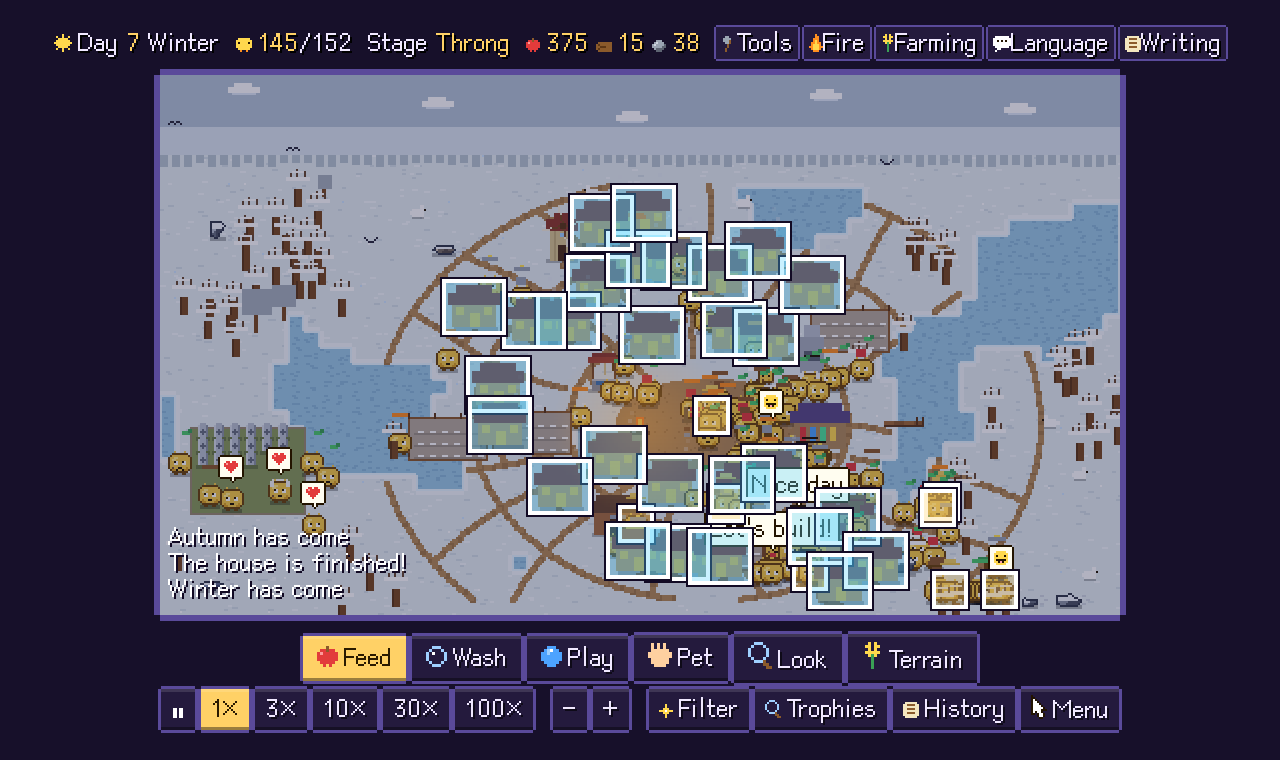
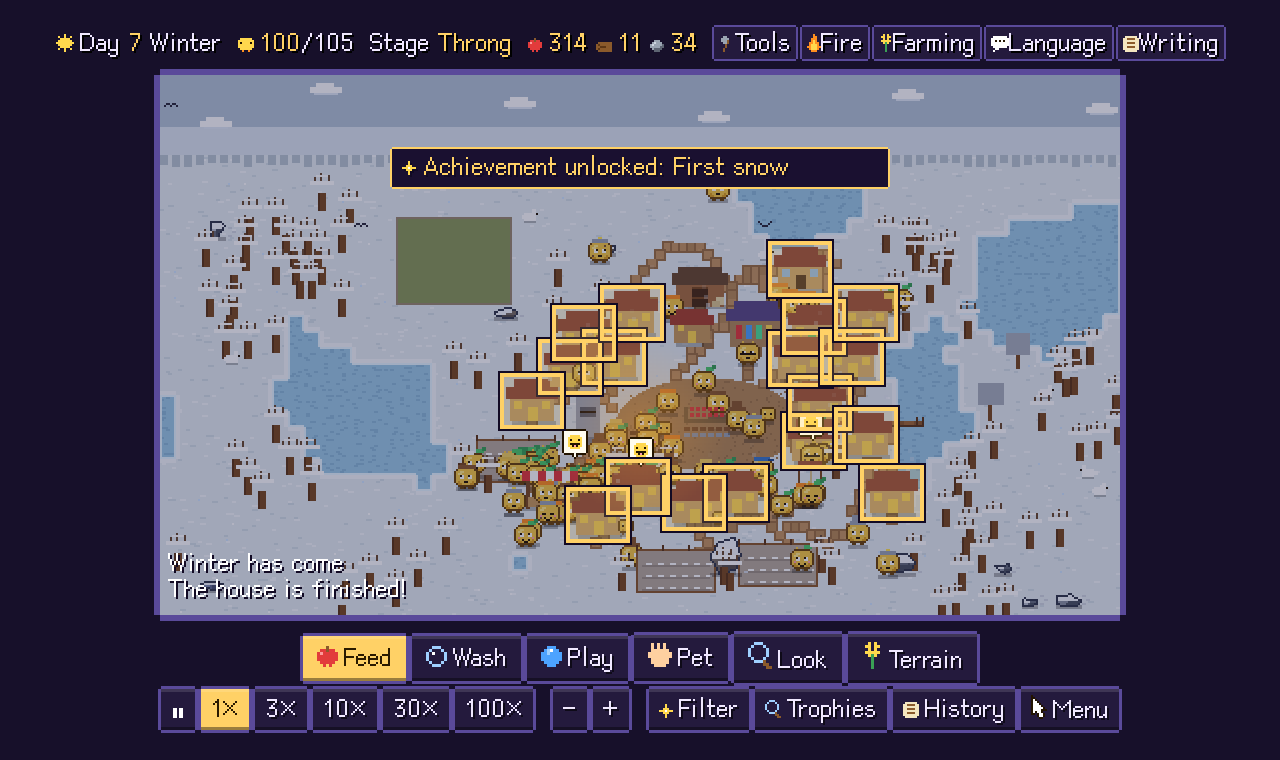
Close-up detail for buildings and trees; retake screenshots and GIF; update READMEs
Shingled roofs, window frames, doors, chimneys, brick and plank textures,
leaf clumps and bark; new close-up screenshot; GIF now zooms in through the
detail levels. READMEs describe the new road growth and LOD system.

diff --git a/README.zh-TW.md b/README.zh-TW.md
@@ -10,7 +10,7 @@
 
 ![demo](docs/demo.gif)
 
-_一隻小生物在約 15 秒的縮時影片裡長成一座村落（道路、農田、四季、世代）。_
+_一隻小生物在約 12 秒的縮時影片裡長成一座村落，接著鏡頭拉近（細節層級切換成更精細的畫面）。_
 
 ## 玩法
 
@@ -59,6 +59,19 @@ _一隻小生物在約 15 秒的縮時影片裡長成一座村落（道路、農
 
 分成兩排：上排是**工具**（餵食、洗澡、玩球、摸摸、查看、地形）；下排由左到右是**時間**（暫停、1×～100×）、**視角**（縮放）、**面板**（篩選、成就、歷史）與**選單**（音樂、聲音、語言、重來與快捷鍵一覽）。視窗變窄時文字標籤會自動隱藏、只留圖示；滑鼠移到按鈕上會顯示說明與快捷鍵。
 
+## 細節層級（LOD），用像素實作
+
+拉近時畫面會變**精細**，而不只是把方塊放大：
+
+| 層級 | 何時 | 畫法 |
+|---|---|---|
+| 0 遠景 | 縮小且畫面上東西很多 | 簡化色塊，每隻小生物一個色點代表職業 |
+| 1 標準 | 一般 | 原本的像素圖 |
+| 2 近景 | 放大 2× 以上 | 畫布內部解析度 2×：精靈先用原畫法畫進暫存畫布，再用 Scale2x 放大（斜線與轉角變圓），補上受光邊／背光邊、明暗漸層與顆粒；地面與道路同樣處理（細顆粒、草葉、小石子）；臉部以 1/R 像素的解析度重畫：帶輪廓的眼白、虹膜、瞳孔與眼神高光（覺醒後會跟著滑鼠）、眉毛、腮紅、隨心情彎曲的嘴；換季淡入淡出在任何縮放下都保留 |
+| 3 特寫 | 放大 4× 以上 | 內部解析度 4×，同上，並在少數幾隻小生物頭上顯示名字 |
+
+選單的「細節」可強制指定（自動／遠景／標準／近景／特寫）；切換層級時左上角會短暫顯示目前層級。視野外的東西不會繪製。
+
 ## 縮放與平移
 
 滾輪縮放（1×～6×，以游標為中心），右鍵或中鍵拖曳平移；餵食／玩球工具下，左鍵拖曳也能平移（沒有拖動才算「點一下」）。觸控：雙指縮放、單指拖曳平移。鍵盤：`+` `-` 縮放、`0` 還原、方向鍵／WASD 平移；工具列也有 `-` `+` 按鈕。
@@ -69,7 +82,7 @@ _一隻小生物在約 15 秒的縮時影片裡長成一座村落（道路、農
 
 ## 每一局的世界都不一樣
 
-地形由種子隨機生成：湖泊、森林、岩丘的位置都不同，還有春綠、秋橙、青翠三種配色（同一個種子永遠是同一張地圖，可用網址分享）。聚落先有路再有房：從廣場放射出主幹道，疊上幾圈環路（遇到湖就跨過去），房子只蓋在路旁的地段上，由內往外一圈圈填滿，蓋房的地方樹會讓開，路只鋪到聚落需要的範圍；里程碑（紀念碑、圖書館）在第一圈，果園在外圍，營火在廣場邊。地段蓋滿就是這座城的人口上限；每隻小生物會住進自己的房子，白天工作，晚上走回家門口睡覺，有人住的房子會亮窗光、冒炊煙。偶爾還會下雨。
+地形由種子隨機生成：湖泊、森林、岩丘的位置都不同，還有春綠、秋橙、青翠三種配色（同一個種子永遠是同一張地圖，可用網址分享）。道路不是預先規劃的：每蓋好一棟建築，就用最低成本路徑（Dijkstra）從門口走到最近的路或廣場，繞開湖泊、樹、石頭與其他房子並偏好走既有道路，自然長出分岔、匯流、蜿蜒的小路；新房子優先蓋在既有道路旁或其他房子旁。里程碑（紀念碑、圖書館）圍在廣場周圍，農田與磨坊在外圍，碼頭在岸邊。住宅上限約 90 棟；每隻小生物會住進自己的房子，白天工作，晚上走回家門口睡覺，有人住的房子會亮窗光、冒炊煙。偶爾還會下雨。
 
 ## 大致的進程（1× 約 13～16 分鐘，可用 30×/100× 加速）
 

diff --git a/README.md b/README.md
@@ -10,19 +10,20 @@ Single HTML file, zero dependencies, no build step. Open `index.html` and play. 
 
 ![demo](docs/demo.gif)
 
-_A single creature becomes a village in about 15 seconds of time-lapse (roads, farms, seasons, generations)._
+_A single creature becomes a village in about 12 seconds of time-lapse, then the camera zooms in (level-of-detail switches to finer art)._
 
 ![settlement](docs/settlement.png)
 
 | | |
 |---|---|
 | ![winter](docs/winter-filter.png) | ![inspect](docs/inspect.png) |
+| ![close-up](docs/closeup.png) | Zoomed in 4×: shingled roofs, window frames, chimneys and detailed faces — the art gets *finer*, not just bigger. |
 
 ## What is in it
 
 - **Hands-off by default.** They eat fruit, bathe, chat and reproduce without you. Your care is a bonus, not a requirement.
 - **Procedural worlds.** Every game has a different map (lakes, forests, rocks, three palettes). Share one with `?seed=26`.
-- **A planned settlement.** Radial + ring roads grow outward from the plaza; buildings fill the lots along them ring by ring. Landmarks sit near the plaza, farms on the outskirts, docks on the shore.
+- **A planned settlement.** Roads are not planned: whenever a building is finished, a lowest-cost path (Dijkstra) is walked from its door to the nearest road or the plaza, detouring around lakes, trees, rocks and other houses and preferring existing roads — so branching, merging, winding paths emerge on their own. New houses prefer spots along existing roads or next to other houses. Landmarks ring the plaza, farms and mills sit on the outskirts, docks on the shore. Landmarks sit near the plaza, farms on the outskirts, docks on the shore.
 - **Seasons.** Spring blossoms, summer green, autumn leaves, winter snow and frozen lakes. Water level rises and falls with the seasons.
 - **Farming that works.** Crops are sown in spring, ripen in autumn, frost in winter.
 - **Buildings and jobs.** Huts, houses, campfire, farm, library, monument, well, storehouse, mill, market, dock — plus farmers and fishers.
@@ -34,6 +35,7 @@ _A single creature becomes a village in about 15 seconds of time-lapse (roads, f
 - **Terrain tool.** Plant trees, place rocks, dig ponds, fill water.
 - **Achievements & records** saved in your browser, plus nine different endings.
 - **Sound.** Rain, wind, birds, crickets and a seasonal pentatonic melody, all synthesized live with WebAudio (no audio files).
+- **Level of detail, in pixels.** Zoom in and the art gets *finer*, not just bigger: the canvas switches to 2× / 4× internal resolution, sprites are redrawn with a Scale2x pass (rounded corners) plus rim light, shading and grain, and the ground and roads get the same treatment (fine grain, tufts of grass, pebbles). Creature faces are redrawn at sub-pixel resolution — outlined eyes with iris, pupil and a catch-light that follow your mouse when they are watching, brows, blush, and a mouth that curves with their mood. Season changes still cross-fade at any zoom. Zoom out with a big crowd and it falls back to simple colour blocks with a role dot per creature. Force a level in the Menu (Detail: Auto / Far / Normal / Near / Close-up).
 - **Zoom & pan** with the wheel, right-drag, pinch or keyboard. Time speeds up to 100×.
 - **Everything is pixel art**, including the UI, drawn in code (only external asset: a pixel font, see below).
 
